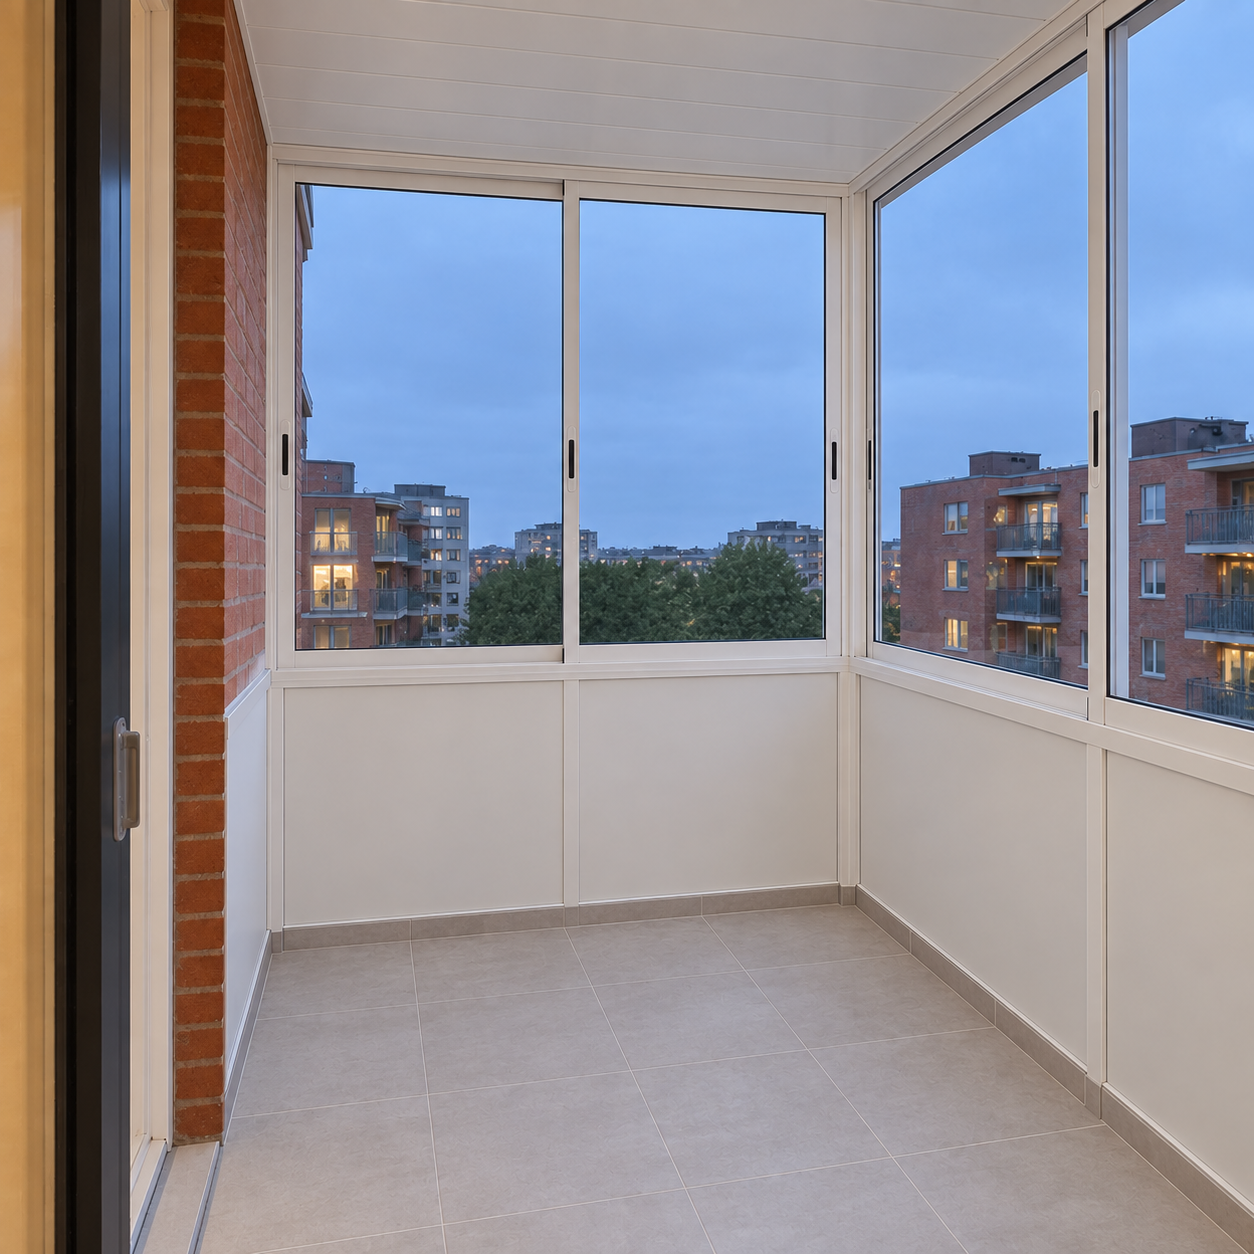
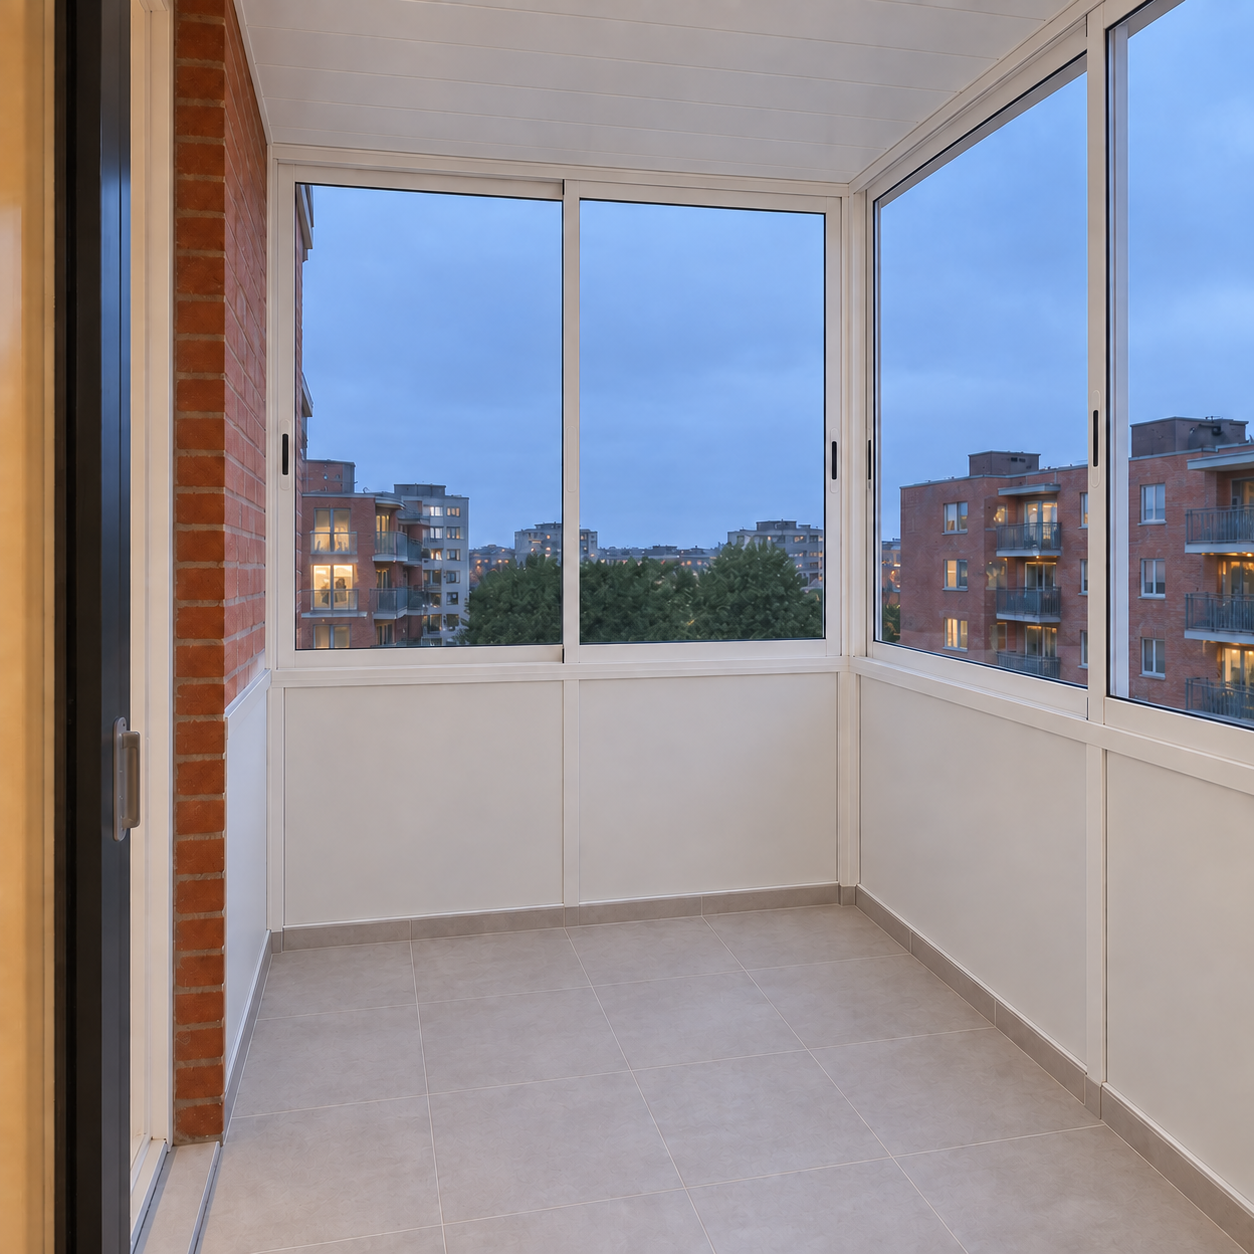
1

diff --git a/public/styles-extra.css b/public/styles-extra.css
@@ -154,7 +154,7 @@ html{scroll-padding-top:104px}
 .comparison-prev{left:12px}.comparison-next{right:12px}
 .comparison-nav:hover{background:var(--teal);color:#fff;box-shadow:0 10px 30px rgba(0,119,126,.3);transform:translateY(-50%) scale(1.06)}
 .comparison-nav:focus-visible{outline:3px solid rgba(0,119,126,.35);outline-offset:3px}
-.comparison-modal-grid{display:grid;grid-template-columns:repeat(2,minmax(0,1fr));gap:10px;min-width:0}
+.comparison-modal-grid{position:relative;display:grid;grid-template-columns:repeat(2,minmax(0,1fr));gap:10px;min-width:0}
 .comparison-modal-grid figure{position:relative;align-self:start;min-width:0;width:100%;max-width:100%;height:auto!important;margin:0;overflow:hidden;border-radius:14px;background:transparent}
 .comparison-modal-grid img{display:block;width:100%;height:auto;max-width:100%;object-fit:contain;object-position:center}
 @media(min-width:641px){
@@ -168,11 +168,67 @@ html{scroll-padding-top:104px}
  .comparison-modal-grid figure{height:auto!important;min-height:0;width:100%}
  .comparison-modal-grid img{width:100%;height:auto;min-height:0;object-fit:contain}
 }
+
+/* Center the “Before” and “After” badges on every comparison image. */
+.before-after-preview b,
+.comparison-modal-grid figure>span{
+ left:50%!important;
+ right:auto!important;
+ transform:translateX(-50%);
+ text-align:center;
+}
+
+/* Inline calculator placed directly after the before/after gallery. */
+.cost-calculator-section{scroll-margin-top:96px;padding-top:54px}
+.cost-calculator-section .quiz-layout{grid-template-columns:minmax(0,.86fr) minmax(0,1.14fr);overflow:hidden}
+.cost-calculator-section .quiz-intro{padding:52px 46px;background:#fff}
+.cost-calculator-section .quiz-intro h2{font-size:clamp(34px,3.1vw,48px);line-height:1.08}
+.cost-calculator-section .quiz-form{min-height:520px;padding:42px 46px;background:#f1f2f3;color:var(--ink)}
+.cost-calculator-section .quiz-progress-row,
+.cost-calculator-section .quiz-duration,
+.cost-calculator-section .step-hint,
+.cost-calculator-section .consent{color:var(--muted)}
+.cost-calculator-section .quiz-form legend,
+.cost-calculator-section .back-button{color:var(--ink)}
+.cost-calculator-section .quiz-form progress{accent-color:var(--teal)}
+.cost-calculator-section .quiz-form progress::-webkit-progress-bar{background:#d9ddde}
+.cost-calculator-section .quiz-form progress::-webkit-progress-value{background:var(--teal)}
+.cost-calculator-section .quiz-form progress::-moz-progress-bar{background:var(--teal)}
+.cost-calculator-section .quiz-option{border-color:#d5d9da;background:#fff;color:var(--ink);box-shadow:none}
+.cost-calculator-section .quiz-option:hover{border-color:rgba(0,119,126,.45);background:#fff;box-shadow:0 7px 18px rgba(10,54,55,.07)}
+.cost-calculator-section .quiz-option:has(input:checked){border-color:var(--teal);background:var(--teal-soft);color:var(--teal-dark);box-shadow:0 0 0 1px var(--teal)}
+.cost-calculator-section .quiz-option .radio-circle{border-color:#aeb6b7}
+.cost-calculator-section .quiz-option:has(input:checked) .radio-circle{border-color:var(--teal)}
+.cost-calculator-section .quiz-next-button,
+.cost-calculator-section .quiz-submit{border-color:var(--teal);background:linear-gradient(135deg,#18aaa5 0%,#006a70 100%);color:#fff}
+.cost-calculator-section .quiz-next-button:hover,
+.cost-calculator-section .quiz-submit:hover{border-color:var(--teal-hover);background:linear-gradient(135deg,#129792 0%,#00575d 100%);color:#fff}
+.cost-calculator-section .field input{border-color:#cfd5d6}
+.cost-calculator-section .consent a{color:var(--ink)}
+.cost-calculator-section .form-error{color:#a81f23}
+@media(max-width:900px){
+ .cost-calculator-section .quiz-layout{grid-template-columns:1fr}
+ .cost-calculator-section .quiz-intro{padding:34px 30px}
+ .cost-calculator-section .quiz-form{min-height:490px;padding:32px 30px}
+}
+@media(max-width:640px){
+ .cost-calculator-section{padding-top:34px}
+ .cost-calculator-section .quiz-intro{padding:28px 22px}
+ .cost-calculator-section .quiz-intro h2{font-size:31px}
+ .cost-calculator-section .quiz-intro>p:not(.eyebrow){margin-top:16px}
+ .cost-calculator-section .quiz-note{margin-top:24px;padding-top:18px}
+ .cost-calculator-section .quiz-phone{margin-top:24px}
+ .cost-calculator-section .quiz-form{min-height:470px;padding:27px 20px}
+ .cost-calculator-section .quiz-options{grid-template-columns:1fr}
+ .cost-calculator-section .quiz-option{min-height:64px;padding:16px 14px}
+ .cost-calculator-section .quiz-controls{gap:10px}
+ .cost-calculator-section .quiz-duration{display:none}
+}
 .comparison-modal-grid figure>span{position:absolute;z-index:2;left:15px;top:15px;padding:8px 11px;border:1px solid rgba(255,255,255,.4);border-radius:8px;background:rgba(4,37,37,.7);color:#fff;font-size:10px;font-weight:700;line-height:1;letter-spacing:.1em;text-transform:uppercase;backdrop-filter:blur(8px)}
 @keyframes comparison-in{from{opacity:0;transform:translateY(16px) scale(.985)}to{opacity:1;transform:none}}
 @keyframes comparison-backdrop{from{opacity:0}to{opacity:1}}
 @media(max-width:900px){.before-after-grid{grid-template-columns:1fr 1fr}.before-after-preview{height:255px}.comparison-modal{width:calc(100% - 28px);max-height:calc(100dvh - 28px)}.comparison-modal-grid figure{height:55dvh}}
-@media(max-width:640px){.before-after-grid{grid-template-columns:1fr;gap:17px}.before-after-preview{height:250px}.comparison-modal{width:calc(100% - 20px);max-height:calc(100dvh - 20px);border-radius:17px}.comparison-modal-shell{padding:17px}.comparison-modal-head{gap:15px;margin-bottom:16px}.comparison-modal-head h2{font-size:26px}.comparison-close{width:39px;height:39px}.comparison-nav{top:auto;bottom:14px;width:46px;height:46px;font-size:34px;transform:none}.comparison-prev{left:18px}.comparison-next{right:18px}.comparison-nav:hover{transform:scale(1.04)}.comparison-modal-grid{grid-template-columns:1fr;gap:8px;padding-bottom:58px}.comparison-modal-grid figure{height:42dvh}.comparison-modal-grid figure>span{left:10px;top:10px}}
+@media(max-width:640px){.before-after-grid{grid-template-columns:1fr;gap:17px}.before-after-preview{height:250px}.comparison-modal{width:calc(100% - 20px);max-height:calc(100dvh - 20px);border-radius:17px}.comparison-modal-shell{padding:17px}.comparison-modal-head{gap:15px;margin-bottom:16px}.comparison-modal-head h2{font-size:26px}.comparison-close{width:39px;height:39px}.comparison-nav{top:50%;bottom:auto;width:46px;height:46px;font-size:34px;transform:translateY(-50%)}.comparison-prev{left:8px}.comparison-next{right:8px}.comparison-nav:hover{transform:translateY(-50%) scale(1.04)}.comparison-modal-grid{grid-template-columns:1fr;gap:8px;padding-bottom:0}.comparison-modal-grid figure{height:42dvh}.comparison-modal-grid figure>span{left:10px;top:10px}}
 @media(prefers-reduced-motion:reduce){.before-after-card,.before-after-preview img,.comparison-modal[open],.comparison-modal[open]::backdrop{animation:none;transition:none}}
 
 /* Quiz modal */
@@ -2983,7 +3039,9 @@ main .eyebrow{display:none!important}
 }
 @media(min-width:641px){
  .landing-hero .landing-copy{transform:none!important}
- .landing-hero .landing-copy-main{transform:translateY(-40px)}
+ .landing-hero .landing-copy-main{transform:none;padding-top:18px}
+ .home-page .hero h1,
+ .landing-hero .landing-grid h1{font-size:clamp(38px,3vw,50px)}
 }
 @media(max-width:640px){
  .landing-hero .landing-copy>.breadcrumbs{
@@ -3145,7 +3203,7 @@ main .eyebrow{display:none!important}
 }
 .insulation-materials li{
  display:grid;
- grid-template-columns:112px 38px minmax(0,1fr);
+ grid-template-columns:38px minmax(0,1fr) 150px;
  gap:13px;
  align-items:center;
  min-height:106px;
@@ -3154,14 +3212,39 @@ main .eyebrow{display:none!important}
  border-radius:16px;
  background:var(--page-gray);
 }
-.insulation-materials li>img{
- width:112px;
- height:82px;
- object-fit:cover;
+.insulation-material-media{
+ grid-column:3;
+ grid-row:1;
+ display:flex;
+ align-items:center;
+ justify-content:center;
+ width:150px;
+ height:86px;
+ padding:5px;
  border-radius:11px;
+ background:#fff;
  box-shadow:0 4px 14px rgba(18,42,43,.1);
 }
-.insulation-materials li>span{
+.insulation-material-media img{
+ display:block;
+ max-width:100%;
+ height:100%;
+ object-fit:contain;
+}
+.insulation-material-media-pair{
+ gap:5px;
+ padding-inline:4px;
+}
+.insulation-material-media-pair img{width:59px}
+.insulation-material-media-pair b{
+ flex:0 0 auto;
+ color:var(--teal);
+ font-size:20px;
+ line-height:1;
+}
+.insulation-materials .insulation-material-check{
+ grid-column:1;
+ grid-row:1;
  display:grid;
  width:38px;
  height:38px;
@@ -3173,6 +3256,8 @@ main .eyebrow{display:none!important}
  font-weight:800;
 }
 .insulation-materials li strong{
+ grid-column:2;
+ grid-row:1;
  font-size:15px;
  line-height:1.45;
 }
@@ -3189,13 +3274,16 @@ main .eyebrow{display:none!important}
  .insulation-materials h2{font-size:29px}
  .insulation-materials-copy p{font-size:14px}
  .insulation-materials li{
-  grid-template-columns:78px 32px minmax(0,1fr);
+  grid-template-columns:32px minmax(0,1fr) 108px;
   min-height:82px;
   gap:10px;
   padding:9px;
  }
- .insulation-materials li>img{width:78px;height:64px;border-radius:9px}
- .insulation-materials li>span{width:32px;height:32px;font-size:16px}
+ .insulation-material-media{width:108px;height:64px;border-radius:9px}
+ .insulation-material-media-pair{gap:3px;padding-inline:3px}
+ .insulation-material-media-pair img{width:41px}
+ .insulation-material-media-pair b{font-size:16px}
+ .insulation-materials .insulation-material-check{width:32px;height:32px;font-size:16px}
  .insulation-materials li strong{font-size:13px}
 }
 
@@ -3389,4 +3477,34 @@ body{min-width:0;max-width:100%;overflow-x:clip}
   justify-content:flex-start;
   text-align:left;
  }
+}
+
+/* On phones, let the proof cards overlap the lower edge of the hero photo. */
+@media(max-width:640px){
+ .home-page .trust-strip,
+ .landing-hero>.landing-trust{
+  position:relative;
+  z-index:6;
+  margin-top:-28px;
+ }
+ .landing-hero>.landing-trust{margin-bottom:18px}
+}
+
+/* Compact the gift-card action visually on phones; the whole card remains tappable. */
+@media(max-width:640px){
+ .promotion-card-copy>span{
+  min-height:38px;
+  padding:7px 10px;
+ }
+}
+
+/* Keep the mobile gallery heading connected to its first before/after card. */
+@media(max-width:640px){
+ .before-after-section .section-heading{margin-bottom:14px}
+}
+
+/* On phones, begin the inline calculator with the first question. */
+@media(max-width:640px){
+ .cost-calculator-section .quiz-intro{display:none}
+ .cost-calculator-section .quiz-layout{grid-template-columns:minmax(0,1fr)}
 }

diff --git a/public/styles.css b/public/styles.css
@@ -1,2 +1,3 @@
 :root{--red:#b7292d;--red-hover:#962025;--ink:#222727;--muted:#6e7474;--line:#e2e5e4;--soft:#f4f5f3;--white:#fff;--radius:16px;font-family:Arial,Helvetica,sans-serif;color:var(--ink);font-synthesis:none}*{box-sizing:border-box}html{scroll-behavior:smooth;scroll-padding-top:110px}body{margin:0;background:#fff;font-size:16px;line-height:1.6}a{color:inherit;text-decoration:none}button,input,select{font:inherit}button,a,input,summary{ -webkit-tap-highlight-color:transparent}button{cursor:pointer}img{display:block;max-width:100%;object-fit:cover}h1,h2,h3,p{margin:0}h1,h2,h3{font-weight:500;line-height:1.1;letter-spacing:-.045em}h1{font-size:clamp(42px,3.55vw,58px);max-width:710px}h1 em{color:var(--red);font-style:normal}h2{font-size:clamp(32px,3.1vw,46px)}h3{font-size:25px;letter-spacing:-.035em}.container{max-width:1328px;width:calc(100% - 96px);margin-inline:auto}.site-header{height:106px;background:#fff;border-bottom:1px solid var(--line)}.header-inner{display:flex;align-items:center;height:100%;gap:28px}.brand{display:flex;align-items:center;gap:10px;font-size:31px;font-weight:750;line-height:1;letter-spacing:-1.5px;flex-shrink:0}.brand-light{font-weight:400}.brand small{display:block;font-size:8px;letter-spacing:2.1px;margin-top:9px;font-weight:500}.brand-mark{width:34px;height:34px;display:flex;align-items:flex-end;gap:3px;transform:skewY(-10deg)}.brand-mark i{border:2px solid var(--red);width:10px;height:27px}.brand-mark i:nth-child(2){height:33px}.brand-mark i:nth-child(3){height:39px}.desktop-nav{display:flex;gap:23px;align-items:center;margin-left:auto;font-size:14px;white-space:nowrap}.desktop-nav a:hover{color:var(--red)}.header-contact{flex-shrink:0}.phone{display:block;font-weight:600;font-size:17px;letter-spacing:-.4px}.header-contact small{font-size:11px;color:var(--muted)}.button{display:inline-flex;align-items:center;justify-content:center;gap:25px;min-height:56px;border:1px solid var(--red);border-radius:8px;background:var(--red);color:#fff;font-size:15px;font-weight:600;padding:16px 24px;text-align:center;transition:background .2s,transform .2s}.button:hover{background:var(--red-hover);border-color:var(--red-hover)}.button span[aria-hidden]{font-size:21px;font-weight:400}.button-small{min-height:44px;font-size:13px;padding:10px 14px;gap:12px}.button-outline{background:transparent;color:var(--red);border-color:#dec0bf}.button-outline:hover{color:#fff}.button-white{background:#fff;color:var(--ink);border-color:var(--line)}.button-white:hover{background:#eef0ed;border-color:#cdd0cc}.hero{display:grid;grid-template-columns:1.03fr 1fr;gap:48px;align-items:center;padding-block:42px 34px}.eyebrow{font-size:11px;font-weight:600;letter-spacing:1.65px;display:flex;align-items:center;gap:10px;color:var(--muted);margin-bottom:28px}.eyebrow>span{width:7px;height:7px;background:var(--red);border-radius:50%}.hero-content{padding-block:14px}.hero-description{font-size:17px;line-height:1.75;color:var(--muted);max-width:470px;margin-top:25px}.hero-actions{display:flex;flex-wrap:wrap;gap:12px;margin-top:32px}.hero-note{color:var(--muted);font-size:12px;margin-top:19px}.hero-visual{height:568px;border-radius:18px;overflow:hidden;position:relative;background:#e6e8e3}.hero-visual>img{width:100%;height:100%}.photo-label{position:absolute;top:22px;left:22px;background:#ffffffeb;padding:8px 12px;border-radius:5px;font-size:10px;letter-spacing:1px;font-weight:600}.hero-photo-card{position:absolute;bottom:22px;left:22px;right:22px;padding:20px;background:#fffffff2;backdrop-filter:blur(12px);border-radius:10px;display:flex;gap:15px;align-items:center}.hero-photo-card strong{display:block;font-size:16px;font-weight:500}.hero-photo-card div>span{display:block;color:var(--muted);font-size:12px;margin-top:3px}.photo-card-icon{width:43px;height:43px;display:grid;place-items:center;border-radius:50%;background:#f1e9e5;color:var(--red);font-size:25px}.trust-strip{display:grid;grid-template-columns:1fr 1fr 1fr 1.15fr;border-top:1px solid var(--line);border-bottom:1px solid var(--line);padding-block:28px}.trust-strip>div{padding-inline:32px;border-right:1px solid var(--line);display:flex;flex-direction:column;justify-content:center;gap:5px}.trust-strip>div:first-child{padding-left:0}.trust-strip>div:last-child{border:0}.trust-strip strong{font-size:32px;font-weight:500;line-height:1.15;letter-spacing:-1px}.trust-strip span{font-size:13px;color:var(--muted)}.trust-strip .trust-last{flex-direction:row;align-items:center;gap:17px}.trust-strip .check-icon{font-size:19px;border:1px solid #bdc9bc;border-radius:50%;width:36px;height:36px;display:grid;place-items:center;color:#576d55;flex-shrink:0}.skip-link{position:fixed;left:15px;top:-80px;z-index:200;background:#fff;padding:12px}.skip-link:focus{top:10px}:focus-visible{outline:3px solid #386eac;outline-offset:4px}
 @media(min-width:1500px){.hero{gap:70px}.hero-visual{height:600px}}@media(max-width:1200px){.container{width:calc(100% - 64px)}.header-cta{display:none}.hero{gap:32px}h1{font-size:46px}.hero-visual{height:555px}.hero-actions{gap:8px}.hero-actions .button{padding-inline:17px;font-size:14px}.desktop-nav{gap:18px}.header-inner{gap:24px}}@media(max-width:900px){.desktop-nav{display:none}.header-contact{margin-left:auto}.hero{gap:25px}h1{font-size:38px}.hero-visual{height:530px}.hero-description{font-size:16px}.hero-actions{flex-direction:column;align-items:flex-start}.trust-strip>div{padding-inline:18px}.trust-strip strong{font-size:26px}.trust-strip .trust-last{gap:9px}.trust-strip span{font-size:12px}}@media(max-width:640px){.container{width:calc(100% - 40px)}.site-header{height:83px}.brand{font-size:26px}.brand-mark{transform:scale(.85) skewY(-10deg);width:30px}.brand small{font-size:7px;letter-spacing:1.5px}.header-contact .phone{font-size:14px}.header-contact small{font-size:9px}.header-inner{gap:12px}.hero{grid-template-columns:1fr;gap:26px;padding-top:26px;padding-bottom:28px}.hero-content{padding:0}.eyebrow{font-size:9px;letter-spacing:1.2px;margin-bottom:21px}h1{font-size:40px;line-height:1.1}.hero-description{font-size:15px;margin-top:20px;max-width:none}.hero-actions{flex-direction:row;align-items:stretch;margin-top:25px;gap:9px}.hero-actions .button{font-size:13px;padding:13px 14px;gap:10px;flex:1;min-height:52px;white-space:nowrap}.hero-note{font-size:11px;margin-top:13px}.hero-visual{height:385px;border-radius:12px}.photo-label{top:16px;left:16px;font-size:9px}.hero-photo-card{left:14px;right:14px;bottom:14px;padding:15px;gap:11px}.hero-photo-card strong{font-size:14px}.hero-photo-card div>span{font-size:10px}.trust-strip{grid-template-columns:1fr 1fr;padding-block:20px;gap:24px}.trust-strip>div{padding:0!important;border:0!important}.trust-strip>div:nth-child(2n){padding-left:18px!important;border-left:1px solid var(--line)!important}.trust-strip strong{font-size:29px}.trust-strip .trust-last{justify-content:flex-start}.trust-strip span{font-size:12px}}@media(max-width:370px){h1{font-size:35px}.hero-actions{flex-direction:column}.header-contact small{display:none}.brand{font-size:23px}.phone{font-size:12px!important}}
+@media(max-width:640px){.before-after-section .section-heading h2 .before-after-heading-secondary{display:block}}

diff --git a/public/app.js b/public/app.js
@@ -1,11 +1,27 @@
 (() => {
  'use strict';
  const $=s=>document.querySelector(s);
+ const logoTopReloadKey='artbalkon.logoTopReload';
+ const forcePageTop=()=>scrollTo(0,0);
+ let forceTopAfterReload=false;
+ try{
+  forceTopAfterReload=sessionStorage.getItem(logoTopReloadKey)==='1';
+  if(forceTopAfterReload)sessionStorage.removeItem(logoTopReloadKey);
+ }catch{}
+ if(forceTopAfterReload){
+  if('scrollRestoration' in history)history.scrollRestoration='manual';
+  forcePageTop();
+  requestAnimationFrame(()=>requestAnimationFrame(forcePageTop));
+  addEventListener('load',forcePageTop,{once:true});
+  addEventListener('pageshow',forcePageTop,{once:true});
+ }
  document.addEventListener('click',e=>{
   const logo=e.target.closest('[data-current-page-logo]');if(!logo)return;
   e.preventDefault();
   history.replaceState(null,'',location.pathname+location.search);
-  scrollTo(0,0);
+  if('scrollRestoration' in history)history.scrollRestoration='manual';
+  try{sessionStorage.setItem(logoTopReloadKey,'1');}catch{}
+  forcePageTop();
   location.reload();
  });
  let config={};
@@ -38,7 +54,7 @@
  syncScrollTop();addEventListener('scroll',syncScrollTop,{passive:true});
  scrollTopButton?.addEventListener('click',()=>window.scrollTo({top:0,behavior:matchMedia('(prefers-reduced-motion: reduce)').matches?'auto':'smooth'}));
  const menu=$('#mobile-menu'),toggle=$('.menu-toggle'),menuBackdrop=$('.mobile-menu-backdrop');let menuCloseTimer=0;
- function openMenu(){if(!menu||!toggle)return;clearTimeout(menuCloseTimer);menu.hidden=false;if(menuBackdrop)menuBackdrop.hidden=false;document.body.classList.add('menu-open');toggle.setAttribute('aria-expanded','true');toggle.setAttribute('aria-label','Закрыть меню');requestAnimationFrame(()=>requestAnimationFrame(()=>{menu.classList.add('is-open');menuBackdrop?.classList.add('is-open');menu.querySelector('.mobile-menu-close')?.focus({preventScroll:true});}));}
+ function openMenu(){if(!menu||!toggle)return;clearTimeout(menuCloseTimer);menu.hidden=false;menu.scrollTop=0;if(menuBackdrop)menuBackdrop.hidden=false;document.body.classList.add('menu-open');toggle.setAttribute('aria-expanded','true');toggle.setAttribute('aria-label','Закрыть меню');requestAnimationFrame(()=>requestAnimationFrame(()=>{menu.scrollTop=0;menu.classList.add('is-open');menuBackdrop?.classList.add('is-open');menu.querySelector('.mobile-menu-close')?.focus({preventScroll:true});}));}
  function closeMenu(restoreFocus=true){if(!menu||!toggle)return;menu.classList.remove('is-open');menuBackdrop?.classList.remove('is-open');document.body.classList.remove('menu-open');toggle.setAttribute('aria-expanded','false');toggle.setAttribute('aria-label','Открыть меню');clearTimeout(menuCloseTimer);menuCloseTimer=setTimeout(()=>{if(toggle.getAttribute('aria-expanded')==='false'){menu.hidden=true;if(menuBackdrop)menuBackdrop.hidden=true;}},300);if(restoreFocus)toggle.focus({preventScroll:true});}
  toggle?.addEventListener('click',()=>toggle.getAttribute('aria-expanded')==='true'?closeMenu():openMenu());
  menu?.addEventListener('click',e=>{if(e.target.closest('a'))closeMenu(false);});
@@ -87,7 +103,7 @@
   return true;
  }
  document.querySelectorAll('input').forEach(el=>el.addEventListener('input',()=>{el.setCustomValidity('');el.closest('form')?.querySelector('.form-error')?.replaceChildren();}));
- const quizDialog=$('#quiz');
+ const quizDialog=document.querySelector('dialog#quiz');
  const quiz=$('[data-lead-form="quiz"]');let step=0,started=false;
  const steps=quiz?[...quiz.querySelectorAll('[data-step]')]:[];
  const lastStep=Math.max(0,steps.length-1);
